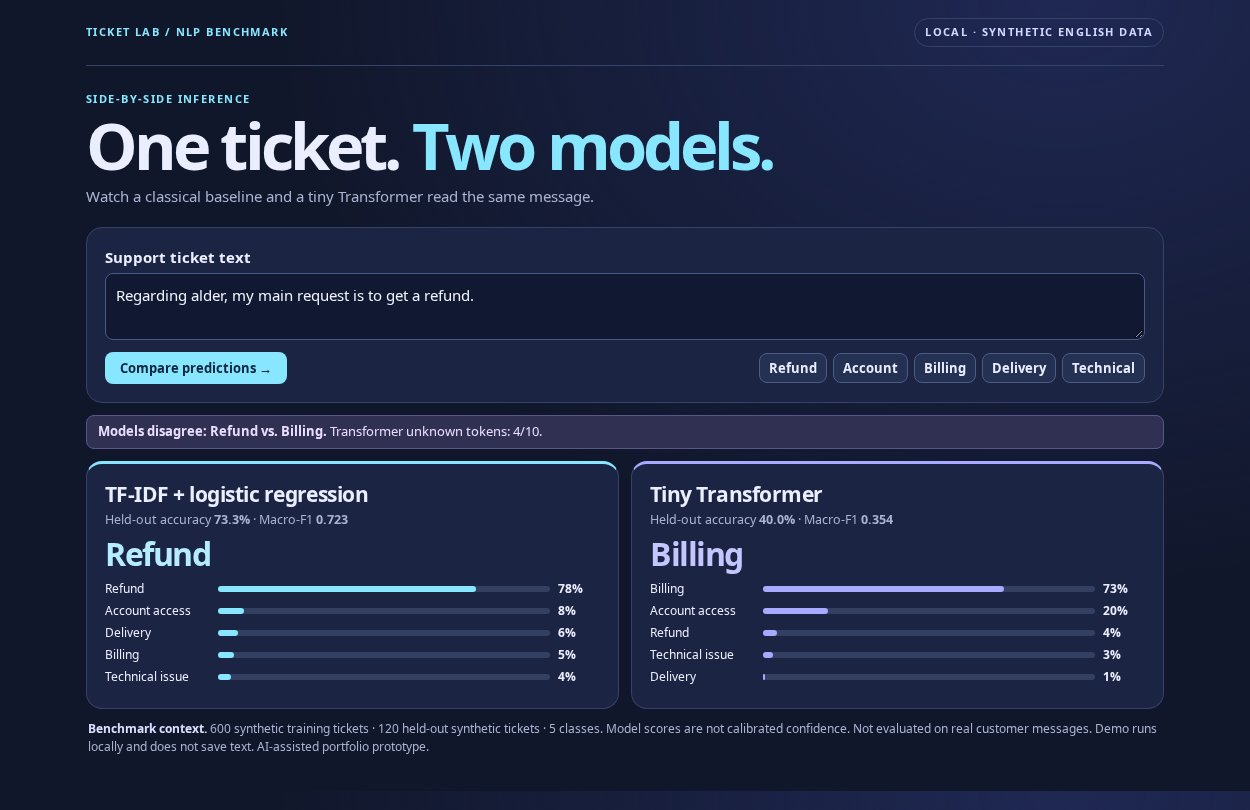
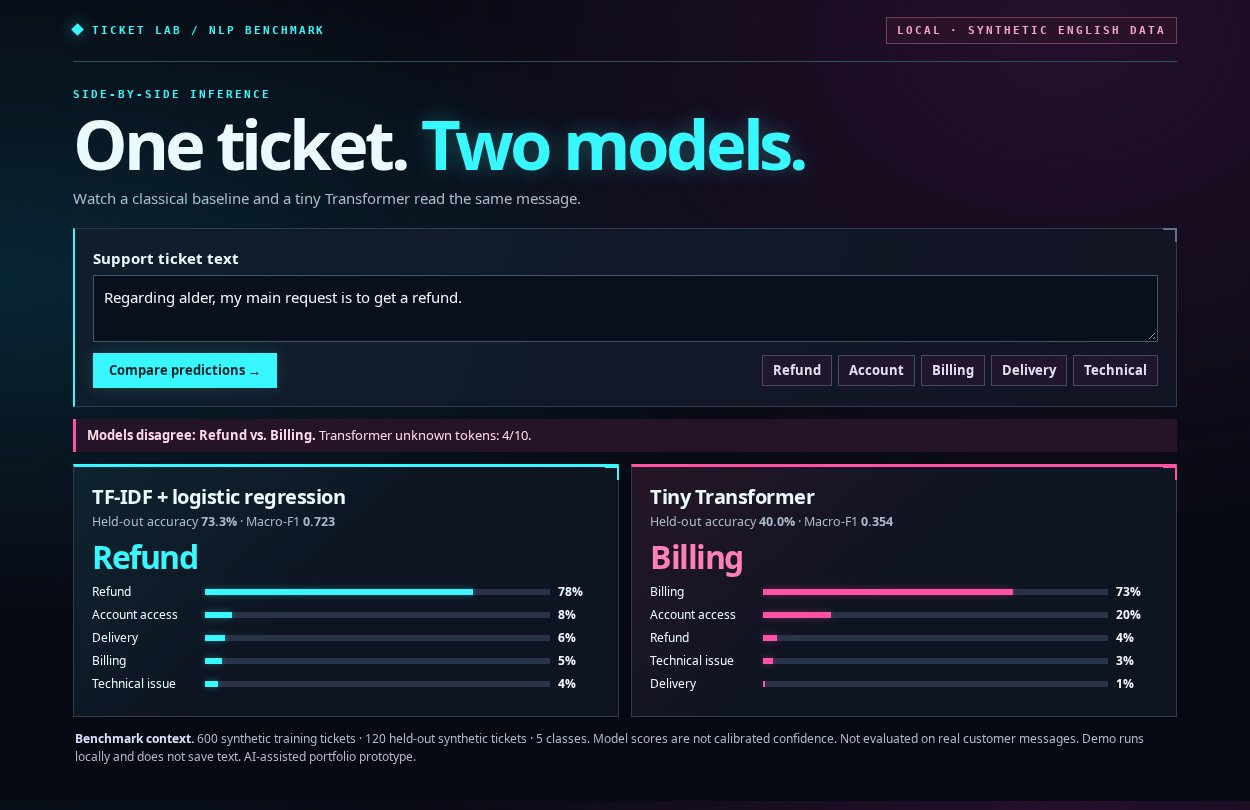
Restyle Ticket Lab in neon cyberpunk theme

diff --git a/app.py b/app.py
@@ -24,24 +24,40 @@ HUMAN = {"account": "Account access", "billing": "Billing", "delivery": "Deliver
 REPORT = Path(__file__).resolve().parent / "examples" / "report.json"
 
 CSS = """
-:root{color-scheme:dark;--c:#ebeeff;--muted:#aab4d1;--accent:#89e6ff;--iris:#a8aaff;--edge:#354369}
-*{box-sizing:border-box} body{margin:0;background:radial-gradient(ellipse at 85% 0%,#1f2853,transparent 52%),#11172b;color:var(--c);font:15px/1.5 system-ui,sans-serif}
-main{max-width:1130px;margin:auto;padding:0 26px 35px} header{display:flex;justify-content:space-between;align-items:center;gap:10px;padding:18px 0;border-bottom:1px solid var(--edge)}
-.brand,.eyebrow,.badge{font-weight:800;font-size:11px;text-transform:uppercase;letter-spacing:.13em;color:var(--accent)}.badge{color:#d1d9ff;border:1px solid var(--edge);padding:5px 10px;border-radius:30px}
-h1,h2,p{margin:0}h1{font-size:clamp(36px,5.5vw,65px);line-height:1;letter-spacing:-.06em}h1 em{font-style:normal;color:var(--accent)}
-h2{font-size:21px;line-height:1.2;letter-spacing:-.025em}.muted,small{color:var(--muted)}.hero{padding:25px 0 19px}.hero p{margin-top:7px}.eyebrow{margin-bottom:6px}
-.card{background:#1b2442;border:1px solid var(--edge);border-radius:16px;padding:18px;min-width:0}
-.input-card label{font-weight:750;display:block;margin-bottom:5px} textarea{background:#101832;border:1px solid #4a5a83;border-radius:8px;resize:vertical;color:#f0f4ff;font:inherit;width:100%;padding:10px;min-height:61px}
+:root{color-scheme:dark;--ink:#eafaff;--muted:#aabaca;--cyan:#38f7fe;--pink:#ff52a5;--line:#303b50;--panel:#0e1422}
+*{box-sizing:border-box}
+body{margin:0;background:radial-gradient(ellipse at 85% 5%,#250f2c 0,transparent 45%),radial-gradient(ellipse at 0 35%,#082533 0,transparent 45%),#080a13;color:var(--ink);font:15px/1.5 system-ui,sans-serif}
+main{max-width:1160px;margin:auto;padding:0 28px 35px}
+header{display:flex;justify-content:space-between;align-items:center;gap:10px;padding:17px 0;border-bottom:1px solid #305057}
+.brand,.eyebrow,.badge{font:800 11px/1.4 ui-monospace,Consolas,monospace;letter-spacing:.18em;text-transform:uppercase;color:var(--cyan)}
+.brand:before{content:"";display:inline-block;width:9px;height:9px;background:var(--cyan);transform:rotate(45deg);margin-right:10px;box-shadow:0 0 15px #38f7fe90}
+.badge{color:#f3a3ca;border:1px solid #73415f;padding:5px 10px;background:#2a1329}
+h1,h2,p{margin:0}h1{font-size:clamp(36px,5.5vw,69px);line-height:1;letter-spacing:-.06em}h1 em{font-style:normal;color:var(--cyan);text-shadow:0 0 21px #38f7fe46}
+h2{font-size:20px;line-height:1.2;letter-spacing:-.025em}
+.muted,small{color:var(--muted)}.hero{padding:25px 0 19px}.hero p{margin-top:8px}.eyebrow{margin-bottom:7px}
+.card{position:relative;background:var(--panel);border:1px solid var(--line);padding:18px;min-width:0}
+.card:after{position:absolute;right:-1px;top:-1px;width:12px;height:12px;content:"";border-top:2px solid #667089;border-right:2px solid #667089;pointer-events:none}
+.input-card{background:linear-gradient(110deg,#101e2c,#131424);border-left:2px solid var(--cyan)}
+.input-card label{font-weight:750;display:block;margin-bottom:5px}
+textarea{background:#090f1b;border:1px solid #43556e;resize:vertical;color:#f0f8ff;font:inherit;width:100%;padding:10px;min-height:61px}
 .actions{display:flex;align-items:center;justify-content:space-between;gap:9px;flex-wrap:wrap;margin-top:6px}.examples{display:flex;gap:6px;flex-wrap:wrap}
-button{border-radius:8px;border:1px solid #4d5c85;color:#e9edff;background:#253153;font:700 13px/1.15 system-ui;padding:7px 9px;cursor:pointer}
-.primary{background:#89e6ff;color:#102640;border:0;padding:9px 15px}button:hover{filter:brightness(1.16)}:focus-visible{outline:2px solid var(--accent);outline-offset:2px}
-.note{margin:12px 0 0;padding:6px 11px;background:#303052;border:1px solid #5b5689;border-radius:8px;color:#ebdeff;font-size:13px}.error{color:#ffd1cf}
-.deck{display:grid;grid-template-columns:1fr 1fr;gap:12px;margin-top:12px}.model:first-child{border-top:3px solid var(--accent)}.model:last-child{border-top:3px solid var(--iris)}
-.top{font-size:32px;line-height:1.12;font-weight:820;letter-spacing:-.045em;margin-top:6px;color:#b6ecff}.model:last-child .top{color:#c4c6ff}
-ol{list-style:none;padding:0;margin:8px 0 0}li{display:grid;grid-template-columns:105px 1fr 42px;gap:8px;align-items:center;font-size:12px;margin:4px 0}
-.track,.fill{height:6px;border-radius:8px}.track{background:#344062}.fill{background:var(--accent)}.model:last-child .fill{background:var(--iris)}
-footer{margin:11px 2px 0;color:var(--muted);font-size:12px}footer strong{color:#d9e0ff}
-@media(max-width:650px){main{padding-inline:14px}.deck{grid-template-columns:1fr}h1{font-size:43px}.card{padding:14px}.badge{font-size:9px}}
+button{border:1px solid #4c4564;color:#e8e0f2;background:#20172c;font:700 13px/1.15 system-ui;padding:7px 10px;cursor:pointer}
+.primary{background:var(--cyan);color:#08252d;border:1px solid var(--cyan);padding:9px 15px;box-shadow:0 0 18px #38f7fe26}
+button:hover{border-color:var(--pink);color:#ffacd5}.primary:hover{color:#08252d;background:#9afaff;border-color:#9afaff}
+:focus-visible{outline:2px solid var(--cyan);outline-offset:3px}
+.note{margin:12px 0 0;padding:7px 11px;background:#251328;border-left:3px solid var(--pink);color:#ffd6ea;font-size:13px}.error{color:#ffd3cc}
+.deck{display:grid;grid-template-columns:1fr 1fr;gap:12px;margin-top:12px}
+.model:first-child{border-top:3px solid var(--cyan);background:linear-gradient(140deg,#0f2430 0,var(--panel) 48%)}
+.model:last-child{border-top:3px solid var(--pink);background:linear-gradient(140deg,#261627 0,var(--panel) 48%)}
+.model:first-child:after{border-color:var(--cyan)}.model:last-child:after{border-color:var(--pink)}
+.top{font-size:32px;line-height:1.12;font-weight:820;letter-spacing:-.045em;margin-top:7px;color:var(--cyan)}
+.model:last-child .top{color:#ff7fb9}
+ol{list-style:none;padding:0;margin:8px 0 0}li{display:grid;grid-template-columns:105px 1fr 42px;gap:8px;align-items:center;font-size:12px;margin:5px 0}
+.track,.fill{height:6px}.track{background:#293449}.fill{background:var(--cyan);box-shadow:0 0 7px #38f7fe50}
+.model:last-child .fill{background:var(--pink);box-shadow:0 0 7px #ff52a550}
+footer{margin:13px 2px 0;color:var(--muted);font-size:12px}footer strong{color:#d9e0ff}
+@media(max-width:650px){main{padding-inline:14px}.deck{grid-template-columns:1fr}h1{font-size:43px}.card{padding:14px}.badge{font-size:9px;letter-spacing:.08em}}
+@media(prefers-reduced-motion:reduce){*{scroll-behavior:auto}}
 """
 
 
